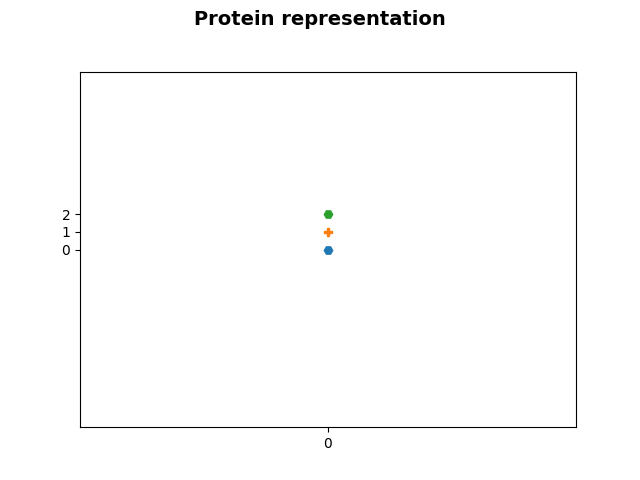
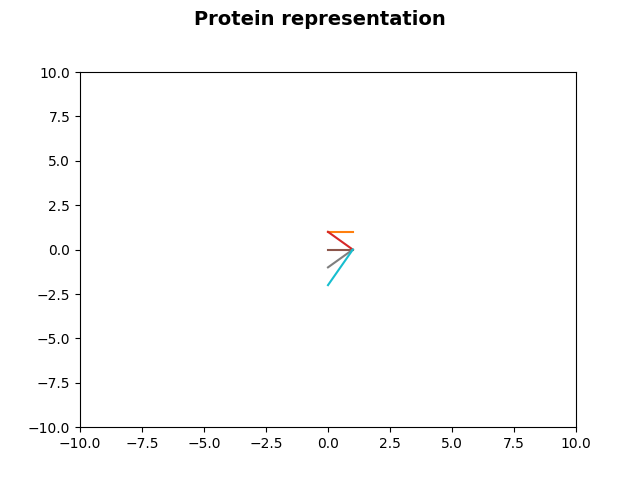
improved on score

diff --git a/code/classes/protein.py b/code/classes/protein.py
@@ -1,4 +1,3 @@
-
 from .molecule import Molecule
 import copy
 
@@ -7,8 +6,9 @@ class Protein:
         self.molecules = []
         self.data = data
         self.size_data= len(data)
-        self.molecule_locations = {"Location":[], "Molecule":[]}
+        self.molecule_locations = {}
         self.stability = 0
+        self.occupied = []
         
         self.create_protein()
         self.score()
@@ -19,7 +19,8 @@ class Protein:
         self.molecule_number = None
         location = [0, 0]
         fold = 0
-        occupied = []
+
+        occupied = self.occupied
 
         # loop over nucleotides of the data and add info to molecule object
         for i, char in enumerate(self.data):
@@ -32,46 +33,60 @@ class Protein:
             molecule = Molecule(nucleotide, molecule_number, location, fold, self.size_data, occupied)
             self.molecules.append(molecule)
 
-            # make dictionary of molecule locations
-            self.molecule_locations[str(location)] = molecule
+            # add molecule to dictionary of molecule locations
+            self.molecule_locations[tuple(location)] = molecule
     
             # update location for next molecule
             location = copy.deepcopy(self.molecules[molecule_number].next_location)
 
-            # set fold of the molecule
+            # update fold for next molecule
             fold = copy.deepcopy(self.molecules[molecule_number].next_fold)
         
 
     def score(self):
-        # # loop over molecules in protein
-        # for location in self.molecule_locations:
-        #     # note score if there is a possible binding
-        #     molecule = self.molecule_locations[location]
-        #     if molecule.nucleotide == "H":
-        #         for i in range(surrounded_by(molecule, H)):
-        #             self.stability -= 1
-        # print(self.stability)
-        pass
+        # loop over molecules in protein
+        for location in self.molecule_locations:
+            # note score if there is a possible binding
+            molecule = self.molecule_locations[location]
 
-    # def surrounded_by(molecule, nucleotide):
-    #     surrounded_by = 0
-    #     fold_directions = [-1, 1]
-    #     #checks for unbound neigbours on bound sides
-    #     for folds in fold_directions:
-    #         location_neigbour = molecule.location[0] + folds
+            # calculate how often H is surrounded by H
+            if molecule.nucleotide == "H":
+                self.stability = self.stability - 1 * self.surrounded_by(molecule, "H") #- self.surrounded_by(molecule, "C")
+                print("stabiliteit:", self.stability)
 
-    #         if self.molecule_locations[location_neigbour] in self.molecule_locations:
-    #             nucleotide_neighbour = self.molecule_locations[location_neigbour].molecule.nucleotide
+    def surrounded_by(self, molecule, nucleotide):
+        surrounded_by = 0
+        fold_directions = [0, 1]
 
-    #             if nucleotide_neighbour == nucleotide:
-    #                 surrounded_by += 1
-    #     surrounded_by = surrounded_by/2
-    #     return surrounded_by
-        pass
-            # for every richting (rechts, links, boven, onder)
-                # check if location +/- 1 is not in dict
-                # check if location +/- 2 is in dict
-                # als allebei de checks, add location +/- 2 to bindingenlist
+        # checks for unbound neigbours on bound sides
+        for folds in fold_directions:
+            location_neighbour = molecule.location
+            location_neighbour[folds] = molecule.location[folds] + 1
+            location_neighbour = tuple(location_neighbour)
+            
+            # checks wether bound to neigbour
+            if self.neigbour_is_not_bound(molecule, location_neighbour) == True:
 
-            # return bindingen list
+                # if there is a neighbour at that location, assign to variable
+                if tuple(location_neighbour) in self.molecule_locations:
+                    nucleotide_neighbour = self.molecule_locations[location_neighbour].nucleotide
+                    if nucleotide_neighbour == nucleotide:
+                        surrounded_by += 1
+
+        return surrounded_by
+
+
+    def neigbour_is_not_bound(self, molecule, location_neighbour):
+        # checks if neighbour in the grid is not bound with a regular bound
+        if molecule.molecule_number != 0 and tuple(self.occupied[molecule.molecule_number - 1]) == location_neighbour:
+            return False
+        elif molecule.molecule_number != self.size_data - 1 and tuple(self.occupied[molecule.molecule_number + 1]) == location_neighbour: 
+            return False
+        elif molecule.molecule_number == 0 or molecule.molecule_number == self.size_data - 1:
+            return False
+        else:
+            return True
+                
+        
+    
         

diff --git a/code/visualisation/visualise.py b/code/visualisation/visualise.py
@@ -14,14 +14,14 @@ X_MAX = 10
 Y_MIN = -10
 Y_MAX = 10
 
-print("test 2")
+# print("test 2")
 
 def make_plot(protein):
-    print("TEST3")
+    # print("TEST3")
     # testdata
     protein = protein
     protein_dict = protein.occupied
-
+    #print(protein_dict)
     # make plot
     fig = plt.figure()
     ax = fig.add_subplot()
@@ -34,14 +34,14 @@ def make_plot(protein):
     ax.axis([X_MIN, X_MAX, Y_MIN, Y_MAX])
 
     # loop over molecules of the protein
-    for item in protein_dict:
+    for i, item in enumerate(protein_dict):
         # obtain x and y values
-        item_list = item.split(",")
-        x_value = item_list[0]
-        y_value = item_list[1]
+        item_list = protein_dict[i] #item.split(",")
+        x_value = int(item_list[0])
+        y_value = int(item_list[1])
 
         # print nucleotide at correct location
-        ax.plot(x_value, y_value, protein_dict[item])
+        ax.plot(x_value, y_value, protein_dict[i])
 
     # save figure
     plt.savefig("test")

diff --git a/main.py b/main.py
@@ -16,6 +16,6 @@ if __name__ == "__main__":
         print(f"nucleotide: {molecule.nucleotide}, molecule number: {molecule.molecule_number}, fold: {molecule.next_fold}, location: {molecule.location}")
     
     test = Example
-    print("test1")
+  
     visualise.make_plot(test)
 
